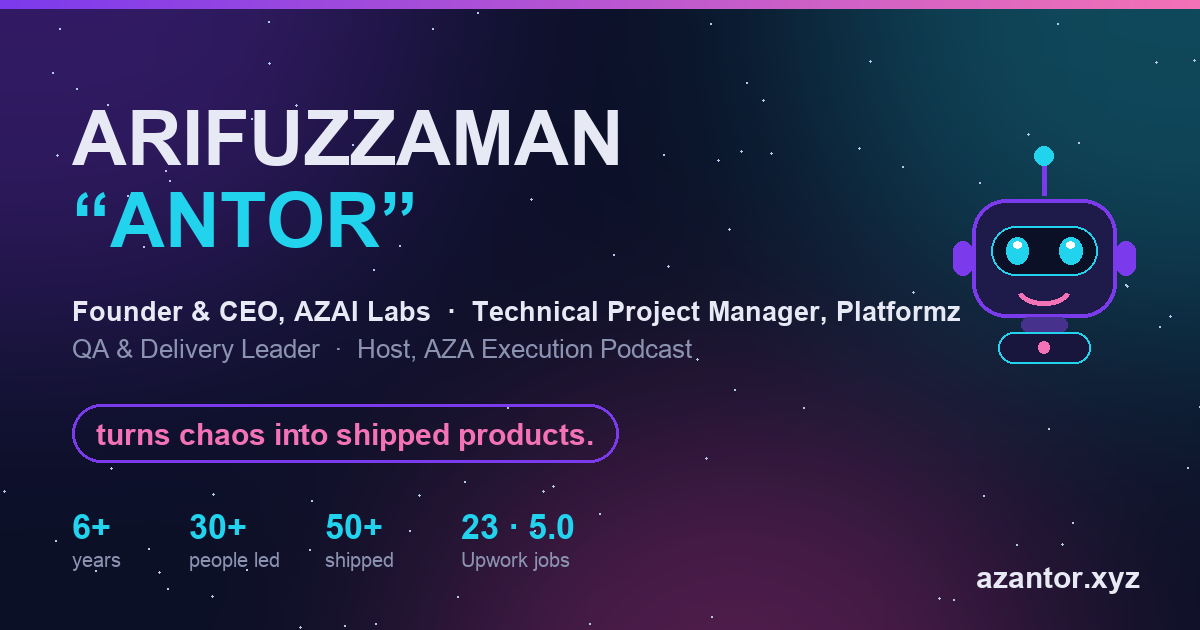
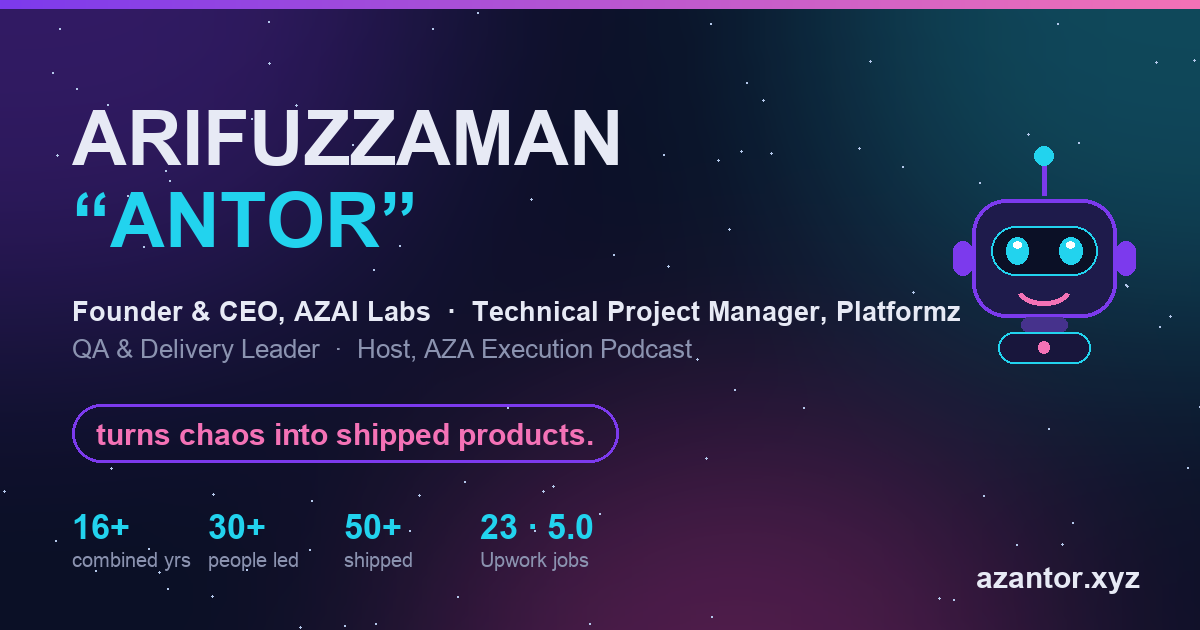
Add 16+ combined-years stat with parallel-roles explanation site-wide
Hero stat, career totals, life graph one-liner, resume summary + highlight,
OG card, SEO description — 16+ yrs across 12 roles in 6 calendar years.

Changed region(s): [[0.0617, 0.8143, 0.3392, 0.9048], [0.37, 0.8143, 0.4933, 0.9048]]

diff --git a/app/content.ts b/app/content.ts
@@ -36,7 +36,7 @@ export const profile = {
 };
 
 export const heroStats = [
-  { value: 6, suffix: "+", label: "Years in tech & delivery" },
+  { value: 16, suffix: "+", label: "Combined years of experience — up to 5 roles in parallel" },
   { value: 30, suffix: "+", label: "People led — eng, DevOps, design, marketing" },
   { value: 40, suffix: "+", label: "Clients & companies served" },
   { value: 50, suffix: "+", label: "Projects & products shipped" },
@@ -44,7 +44,7 @@ export const heroStats = [
 
 // Full cumulative tally — rendered as the stat grid in Career Analytics.
 export const careerTotals = [
-  { value: 6, suffix: "+", label: "Years in tech & delivery" },
+  { value: 16, suffix: "+", label: "Combined years of experience — in just 6 calendar years" },
   { value: 12, suffix: "", label: "Companies & roles" },
   { value: 40, suffix: "+", label: "Clients & companies served" },
   { value: 30, suffix: "+", label: "People led across teams" },

diff --git a/app/layout.tsx b/app/layout.tsx
@@ -16,7 +16,7 @@ const inter = Inter({
 const SITE = "https://azantor.xyz";
 const TITLE = "Arifuzzaman “Antor” — Founder & CEO, Technical Project Manager & QA Leader";
 const DESCRIPTION =
-  "Arifuzzaman Antor (Arifuz Zaman Antor / Azantor / azaworld) — Founder & CEO of AZAI Labs, Co-Founder & CTO of Upward, Technical Project Manager at Platformz, QA & Delivery Leader, SDET, podcaster and AI tech instructor from Dhaka, Bangladesh. Explore the interactive portfolio.";
+  "Arifuzzaman Antor (Arifuz Zaman Antor / Azantor / azaworld) — Founder & CEO of AZAI Labs, Co-Founder & CTO of Upward, Technical Project Manager at Platformz, QA & Delivery Leader, SDET, podcaster and AI tech instructor from Dhaka, Bangladesh. 16+ years of combined experience across parallel roles, compressed into 6 calendar years.";
 
 export const metadata: Metadata = {
   metadataBase: new URL(SITE),

diff --git a/app/components/sections/LifeGraph.tsx b/app/components/sections/LifeGraph.tsx
@@ -70,6 +70,9 @@ export default function LifeGraph() {
             <p className="mt-1 text-xs text-muted sm:text-sm">
               12 chapters, 2020 → today. Watch the climb — bottom to top.
             </p>
+            <p className="mt-1.5 text-xs font-medium text-cyan sm:text-sm">
+              ≈16.5 years of combined experience in 6 calendar years — because up to 5 roles ran in parallel.
+            </p>
           </div>
           <p className="font-mono text-[10px] uppercase tracking-widest text-muted">level 1 → 12</p>
         </div>

diff --git a/scripts/make_resume.py b/scripts/make_resume.py
@@ -62,8 +62,9 @@ story += [Paragraph(
     "cross-functional team</b> — full QA ownership (automation, manual, security, load/performance) across all portals, "
     "a 3P hybrid EDI program delivered in <b>~60 days</b>, and CEO/CTO/CFO/CMO &amp; Board reporting. "
     "Founder &amp; CEO of <b>AZAI Labs</b> (AI agents doing real client work) and founder of <b>AZADEMY</b>. "
-    "Six years across QA, SDET, reliability, and program delivery for Mastercard, Grameenphone, Kinetik, Kintsugi, "
-    "and global insurance carriers — Upwork Top Rated, <b>23 jobs, all ★ 5.0</b>.", body)]
+    "<b>16+ years of combined experience compressed into 6 calendar years</b> — 12 roles, up to 5 in parallel — "
+    "across QA, SDET, reliability, and program delivery for Mastercard, Grameenphone, Kinetik, Kintsugi, "
+    "and global insurance carriers. Upwork Top Rated, <b>23 jobs, all ★ 5.0</b>.", body)]
 
 # ---- Core Competencies ----
 story += [Paragraph("Core Competencies", h_s)]
@@ -186,7 +187,7 @@ for e in ["B.Sc. Engineering, Computer Science &amp; Engineering — Shahjalal U
 story += [Paragraph("Selected Highlights", h_s)]
 hl = Table([[Paragraph("<b>60 days</b><br/><font size=7.3 color=#5A5F6B>12-month EDI program delivered</font>", body),
              Paragraph("<b>30+</b><br/><font size=7.3 color=#5A5F6B>people led across 3 platforms</font>", body),
-             Paragraph("<b>50+</b><br/><font size=7.3 color=#5A5F6B>projects &amp; products shipped</font>", body),
+             Paragraph("<b>16+ yrs</b><br/><font size=7.3 color=#5A5F6B>combined exp. in 6 calendar yrs</font>", body),
              Paragraph("<b>23 · ★5.0</b><br/><font size=7.3 color=#5A5F6B>Upwork jobs · Top Rated</font>", body),
              Paragraph("<b>5</b><br/><font size=7.3 color=#5A5F6B>ventures founded</font>", body)]],
            colWidths=[W/5]*5)

diff --git a/scripts/make_og.py b/scripts/make_og.py
@@ -86,7 +86,7 @@ d.rounded_rectangle([x0, 404, x0 + tw + 48, 462], radius=29, outline=VIOLET, wid
 d.text((x0 + 24, 417), tag, font=F(BOLD, 30), fill=PINK)
 
 # stats row
-stats = [("6+", "years"), ("30+", "people led"), ("50+", "shipped"), ("23 · 5.0", "Upwork jobs")]
+stats = [("16+", "combined yrs"), ("30+", "people led"), ("50+", "shipped"), ("23 · 5.0", "Upwork jobs")]
 sx = x0
 for num, lab in stats:
     d.text((sx, 508), num, font=F(BOLD, 34), fill=CYAN)
